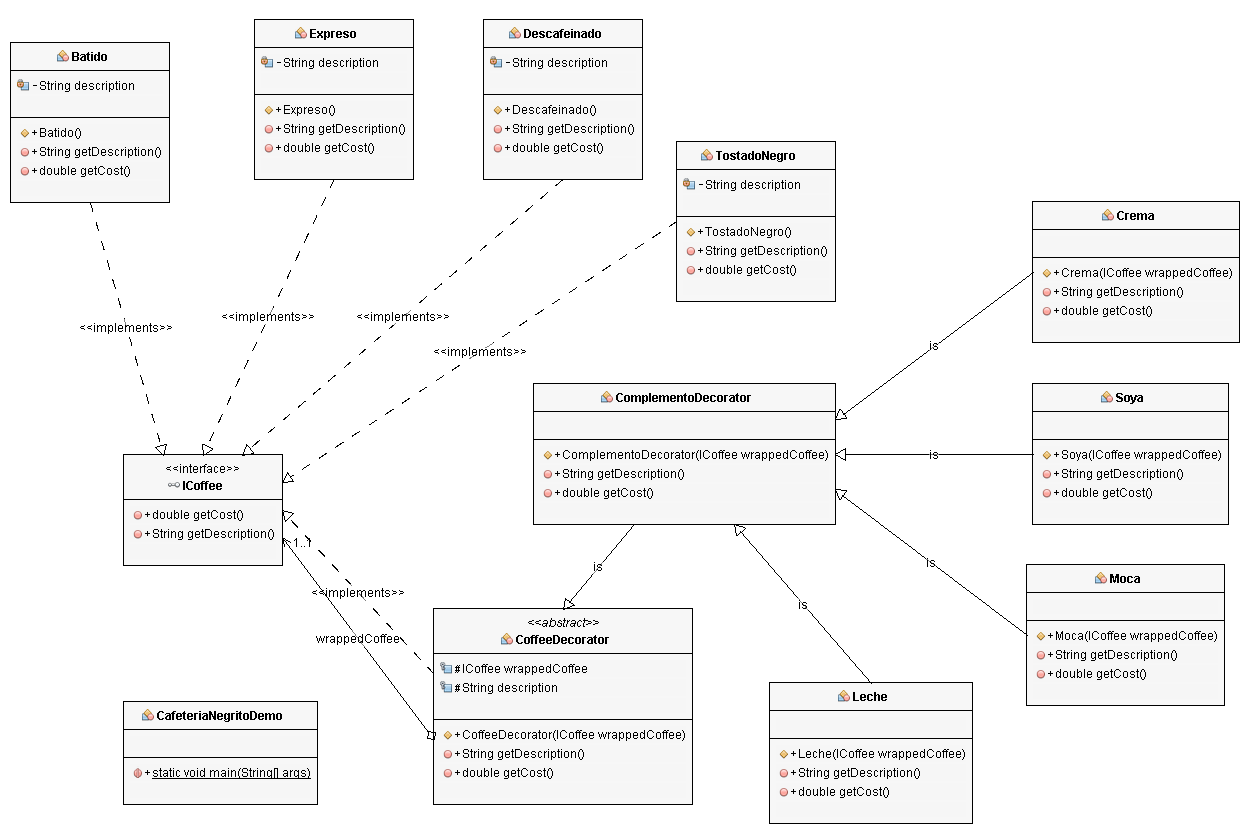
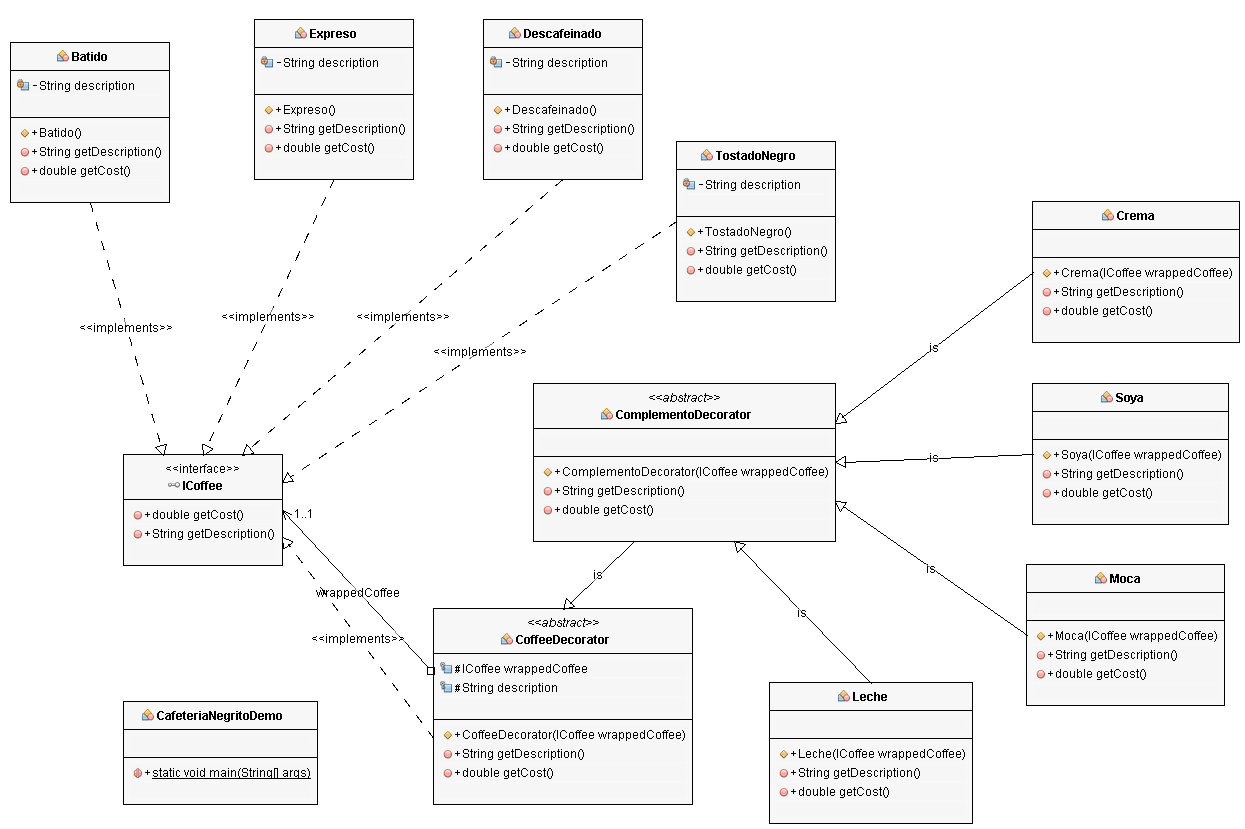
update class to abstract

diff --git a/Excercises/PDD/Cafeteria/ejercicio3/ComplementoDecorator.java b/Excercises/PDD/Cafeteria/ejercicio3/ComplementoDecorator.java
@@ -5,7 +5,7 @@ package Cafeteria.ejercicio3;
  * @author Fernando Calmet
  * @homepage https://github.com/FernandoCalmet
  */
-public class ComplementoDecorator extends CoffeeDecorator {
+public abstract class ComplementoDecorator extends CoffeeDecorator {
     public ComplementoDecorator(ICoffee wrappedCoffee) {
         super(wrappedCoffee);
     }
